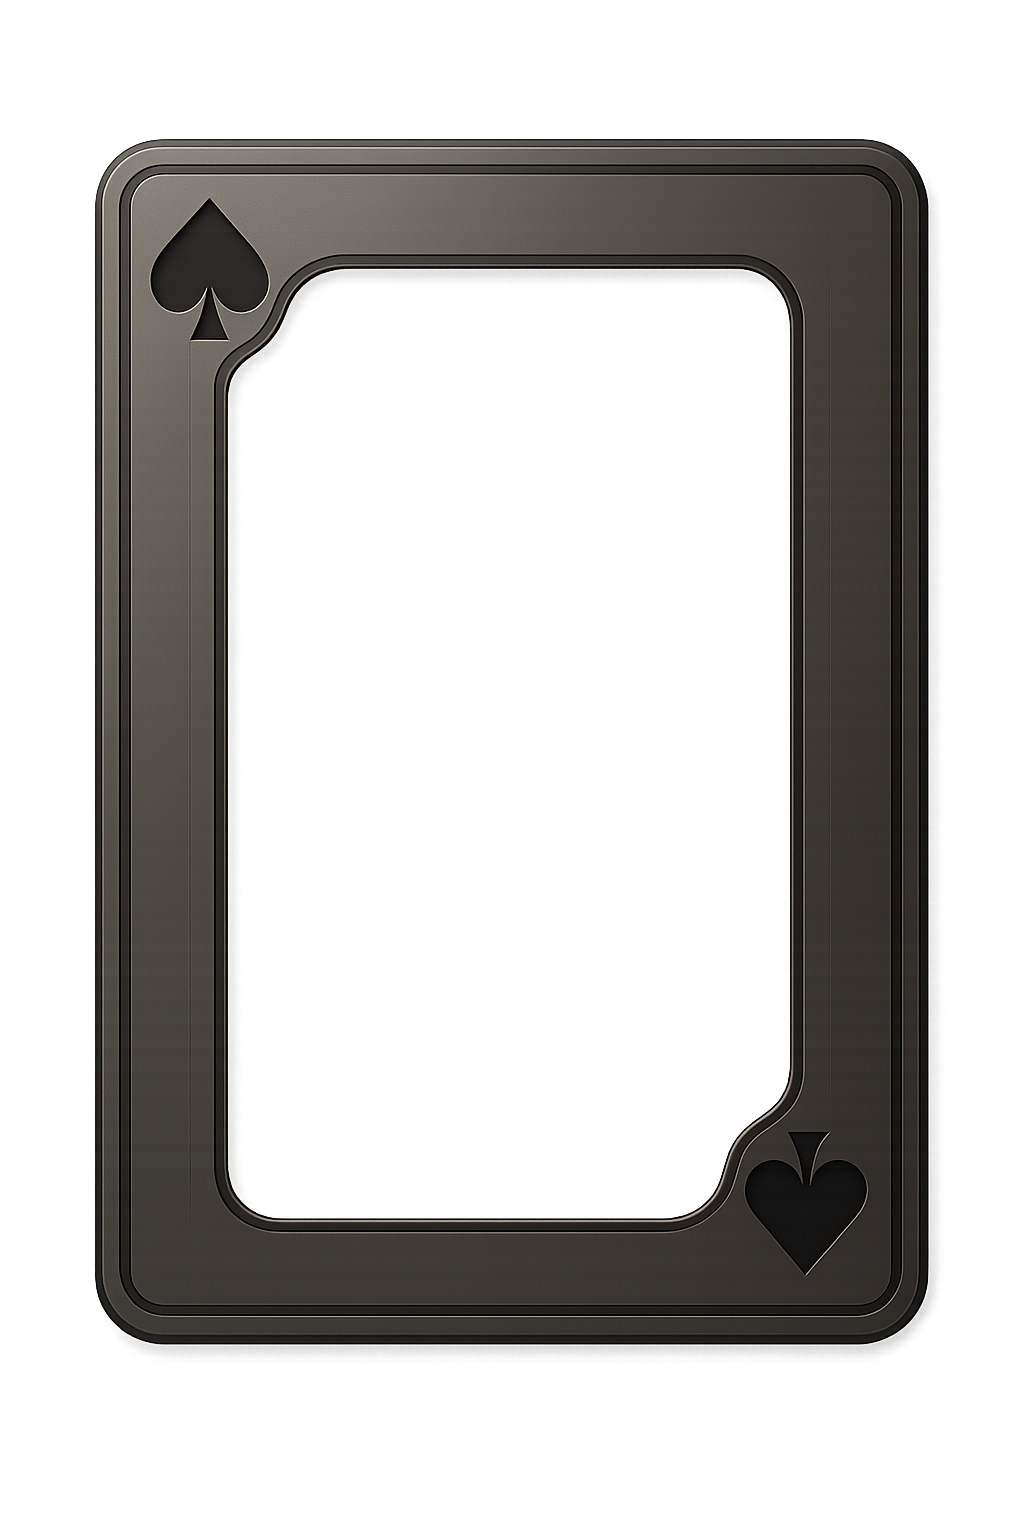
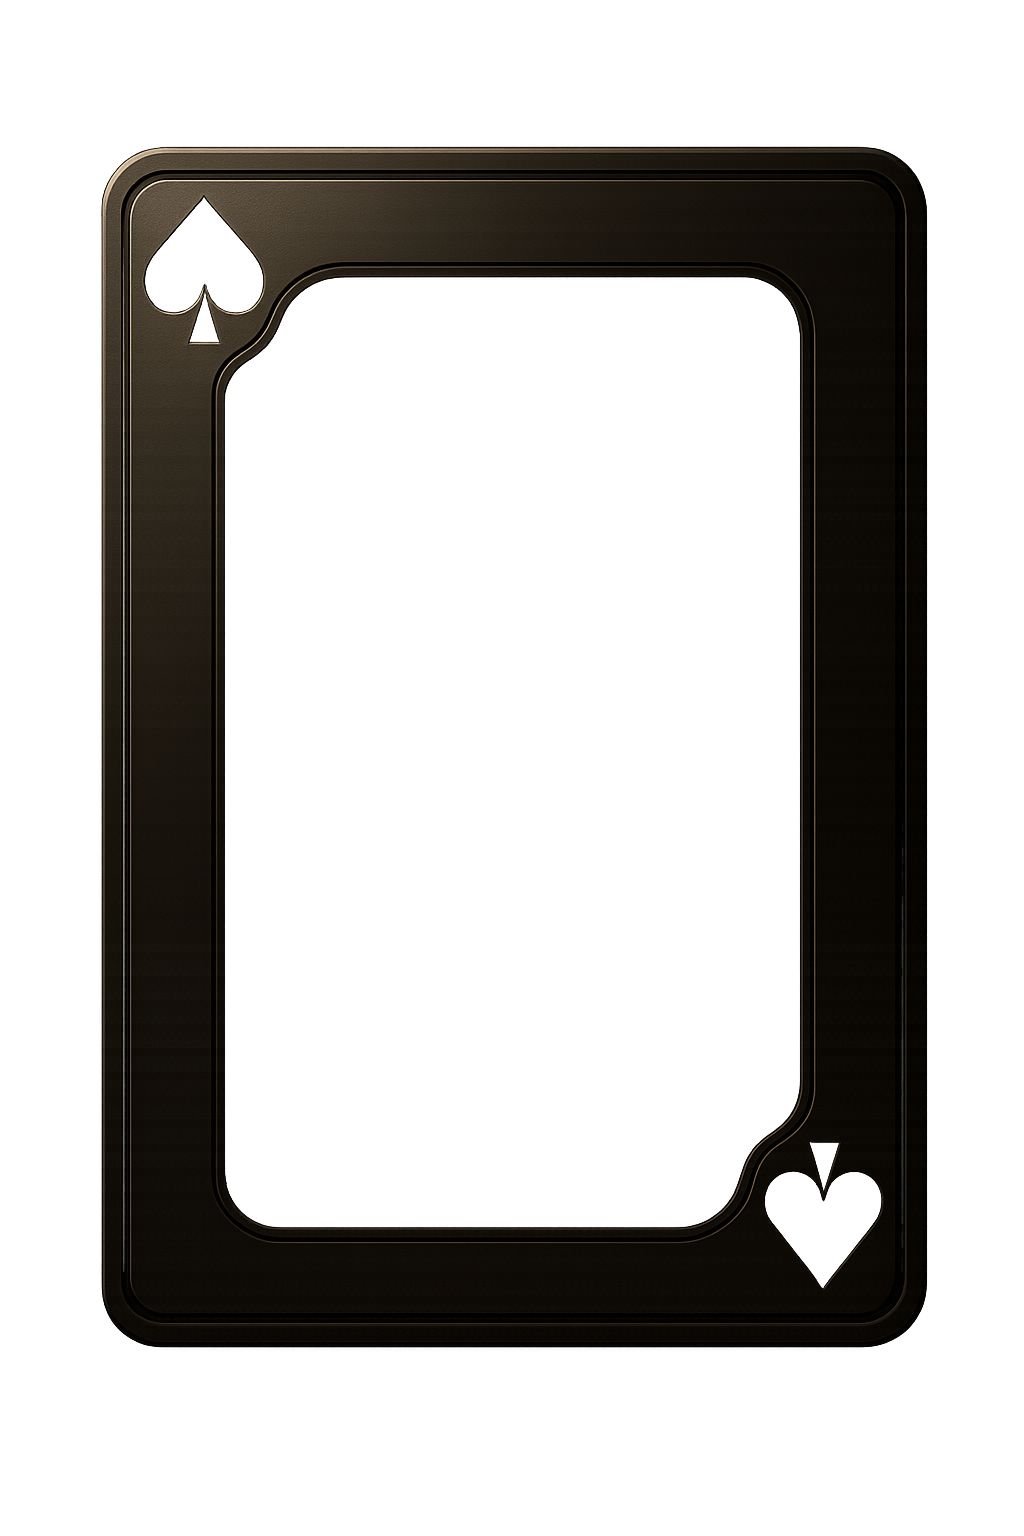
Video positio

Changed region(s): [[0.0938, 0.0625, 0.9375, 0.9062]]

diff --git a/aboutme/styles/main.css b/aboutme/styles/main.css
@@ -76,9 +76,8 @@ body {
   width: min(420px, 90vw);
   aspect-ratio: 3 / 4;
 
-  /* MOVE UP 15% + 5% narrower + 5% taller */
-  transform: translateY(-15%) scaleX(0.95) scaleY(1.05);
-  transform-origin: center;
+  /* back to normal position/size */
+  transform: none;
 }
 
 .stack-card {
@@ -93,17 +92,14 @@ body {
   isolation: isolate;
 
   /* tuning knobs */
-  --video-scale: 0.70;  /* 0.70 = 70%, 0.90 = 90%, 1.00 = 100% */
-  --frame-scale: 1.00;  /* default for all cards */
+  --video-scale: 0.70;  /* 70% */
+  --frame-scale: 1.00;
 }
 
-/* ===== VIDEO =====
-   - forced override so you can SEE changes
-   - moved 10% upward: top 40% instead of 50%
-*/
+/* ===== VIDEO: 70% x 70%, normal centered position ===== */
 .stack-card > video {
   position: absolute !important;
-  top: 40% !important;  /* 10% higher */
+  top: 50% !important;
   left: 50% !important;
 
   width: calc(100% * var(--video-scale)) !important;
@@ -133,10 +129,10 @@ body {
   transform-origin: center;
 }
 
-/* Only pata card tweaks */
+/* If you still want pata frame larger, keep this; otherwise set to 1.00 */
 .stack-card[data-name="pata"]{
   --frame-scale: 1.20;
-  --video-scale: 0.70;  /* adjust to 0.80/0.90/1.00 if needed */
+  --video-scale: 0.70;
 }
 
 /* ===== Fan transforms for the stack ===== */
@@ -261,10 +257,7 @@ body {
   .cards-fan {
     width: min(360px, 92vw);
     margin: 0 auto;
-
-    /* keep same move/scale on mobile */
-    transform: translateY(-15%) scaleX(0.95) scaleY(1.05);
-    transform-origin: center;
+    transform: none;
   }
 
   .card-back-4 { transform: translate(-50px, 6px) rotate(-10deg) scale(.96); }
